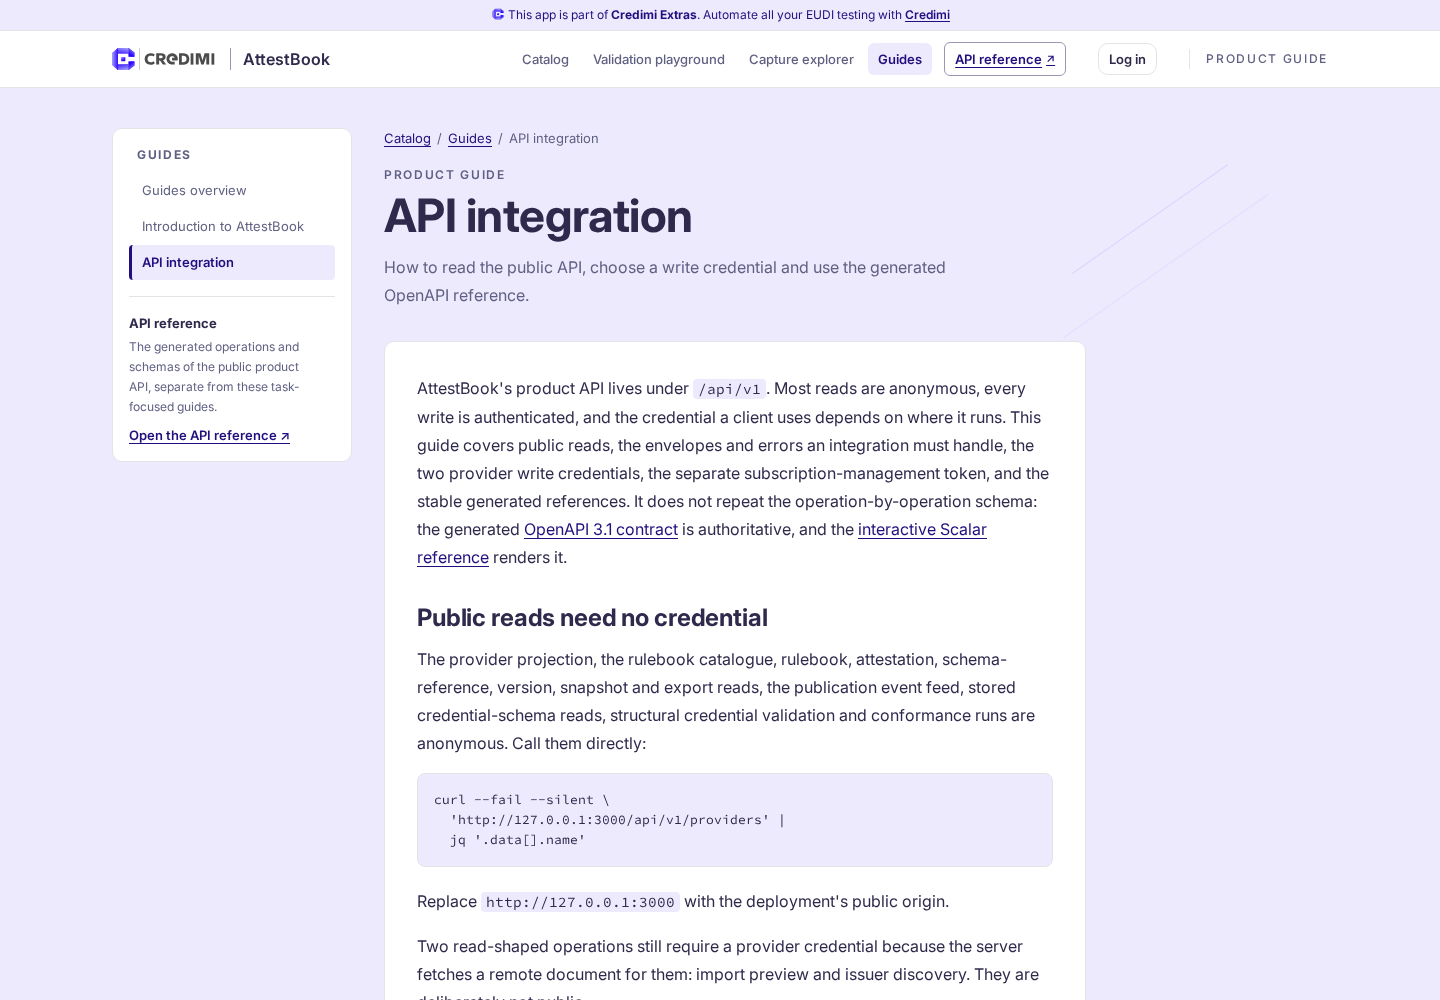
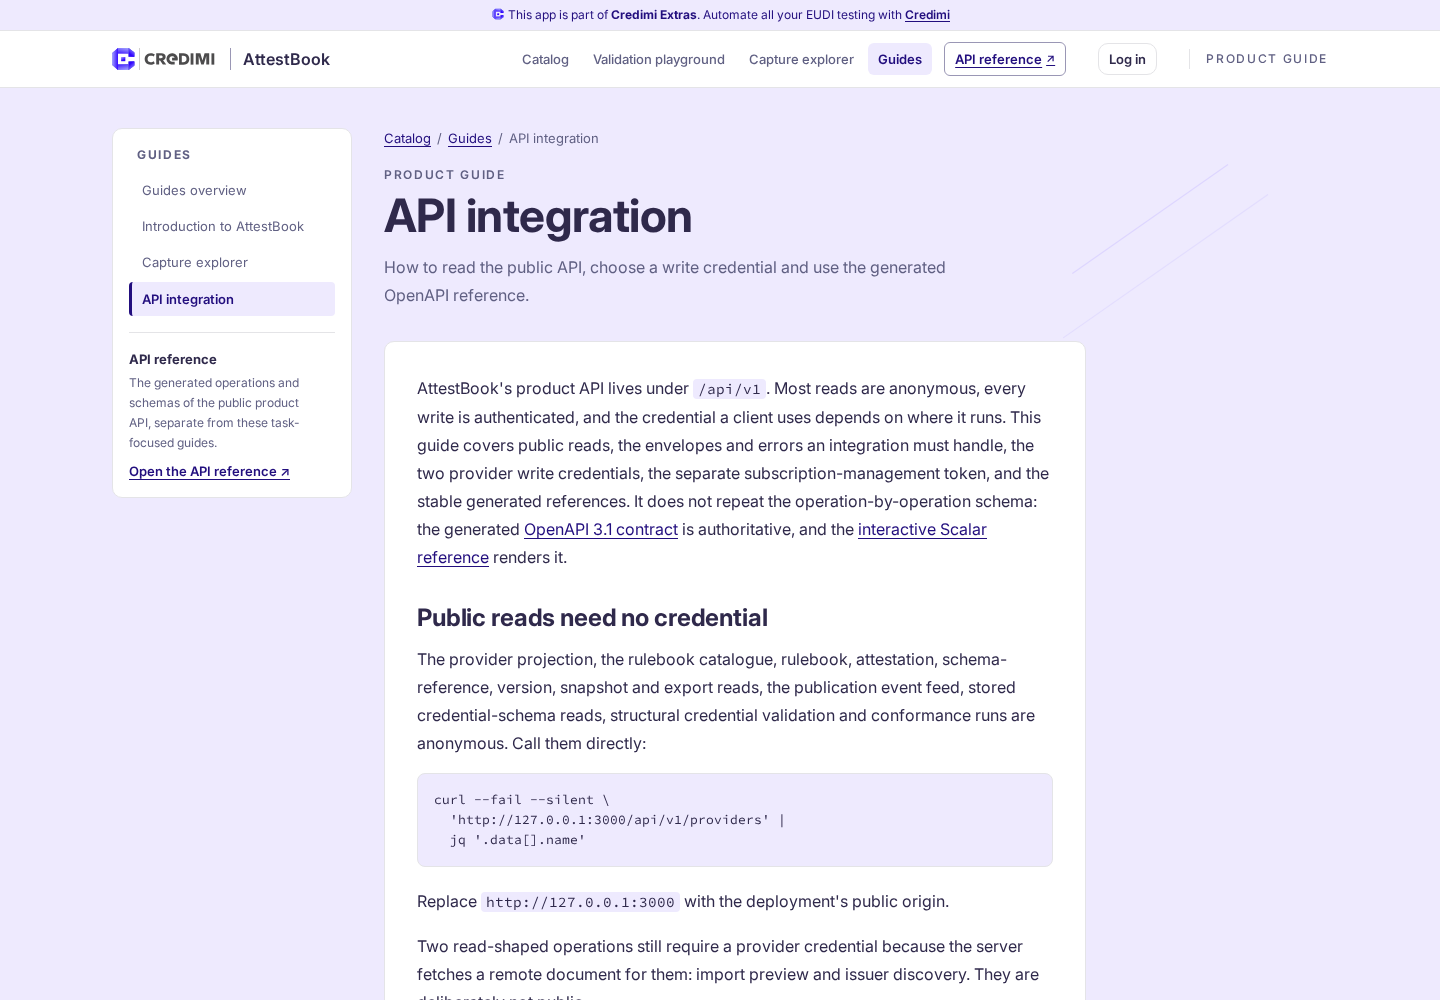
docs(guides): refresh the API integration evidence
Recapture the guide index and API-integration page against main at 1299235, which now includes the capture-explorer guide, so the comparison shows only the new page and card.

Changed region(s): [[0.0938, 0.248, 0.2188, 0.496]]

diff --git a/docs/ui.md b/docs/ui.md
@@ -697,13 +697,13 @@ the unchanged Scalar reference.
 The API-integration guide slice (issue #137) adds one repository-owned Markdown page to the
 existing guide, so it changes no renderer, route or layout. The before/after captures are at
 1440×1000 in the same light theme, taken from the seeded end-to-end server in an anonymous
-browser. The baseline is `14a96cf` (`main` after the guide-navigation slice), where the guide
-index lists only the Introduction and `/guide/api-integration` renders the guide's not-found
-view; the after images are from this PR's head and show the new index card and the rendered
-API-integration page. Both revisions use the same seeded data and viewport, and only the guide
-content differs.
+browser. The baseline is `1299235` (`main` after the capture-explorer guide), where the guide
+index lists the Introduction and Capture explorer and `/guide/api-integration` renders the
+guide's not-found view; the after images are from this PR's head and show the new index card
+and the rendered API-integration page. Both revisions use the same seeded data and viewport,
+and only the guide content differs.
 
-| View | Before (`14a96cf`) | After (this slice) |
+| View | Before (`1299235`) | After (this slice) |
 | --- | --- | --- |
 | Guide index (`/guide`) | [`guide-index-before.png`](ui/api-integration/guide-index-before.png) | [`guide-index-after.png`](ui/api-integration/guide-index-after.png) |
 | API integration (`/guide/api-integration`) | [`api-integration-before.png`](ui/api-integration/api-integration-before.png) | [`api-integration-after.png`](ui/api-integration/api-integration-after.png) |
